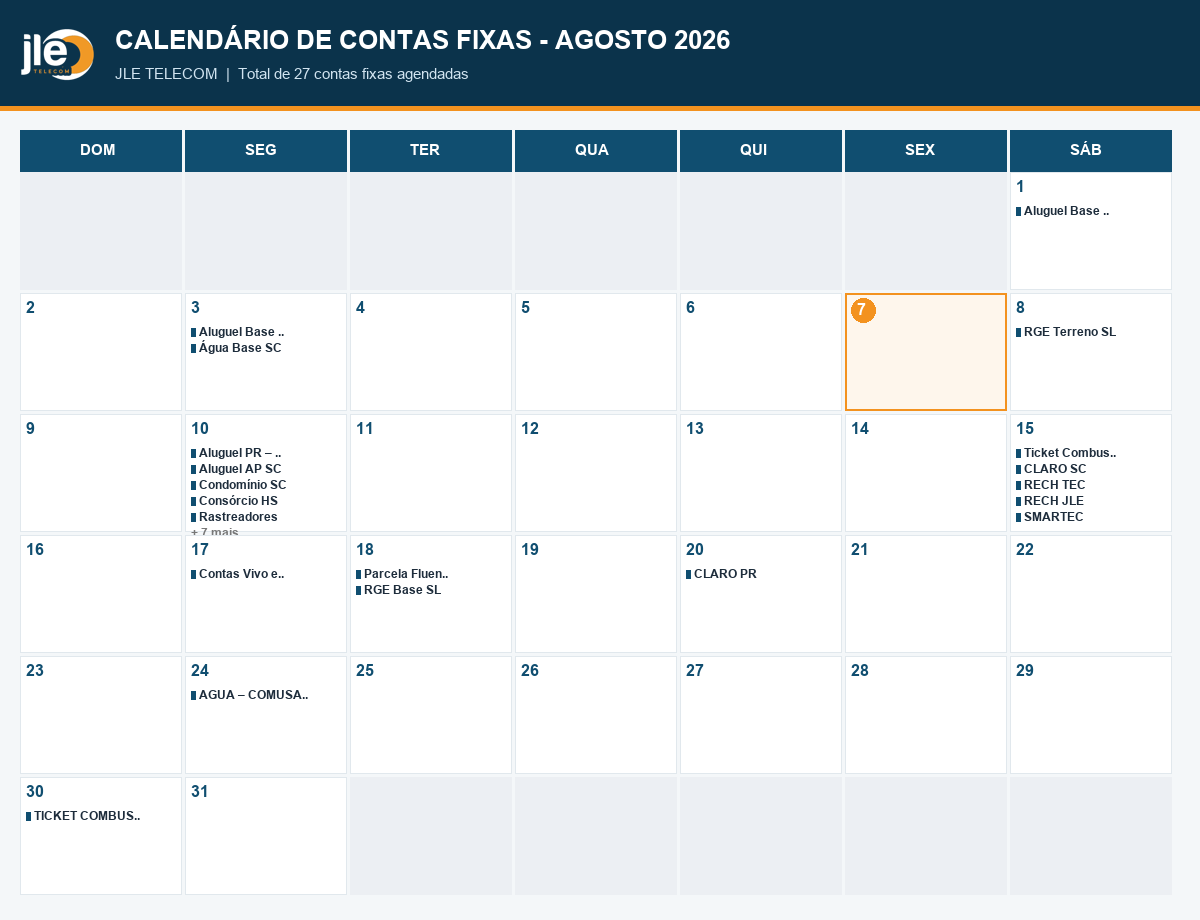
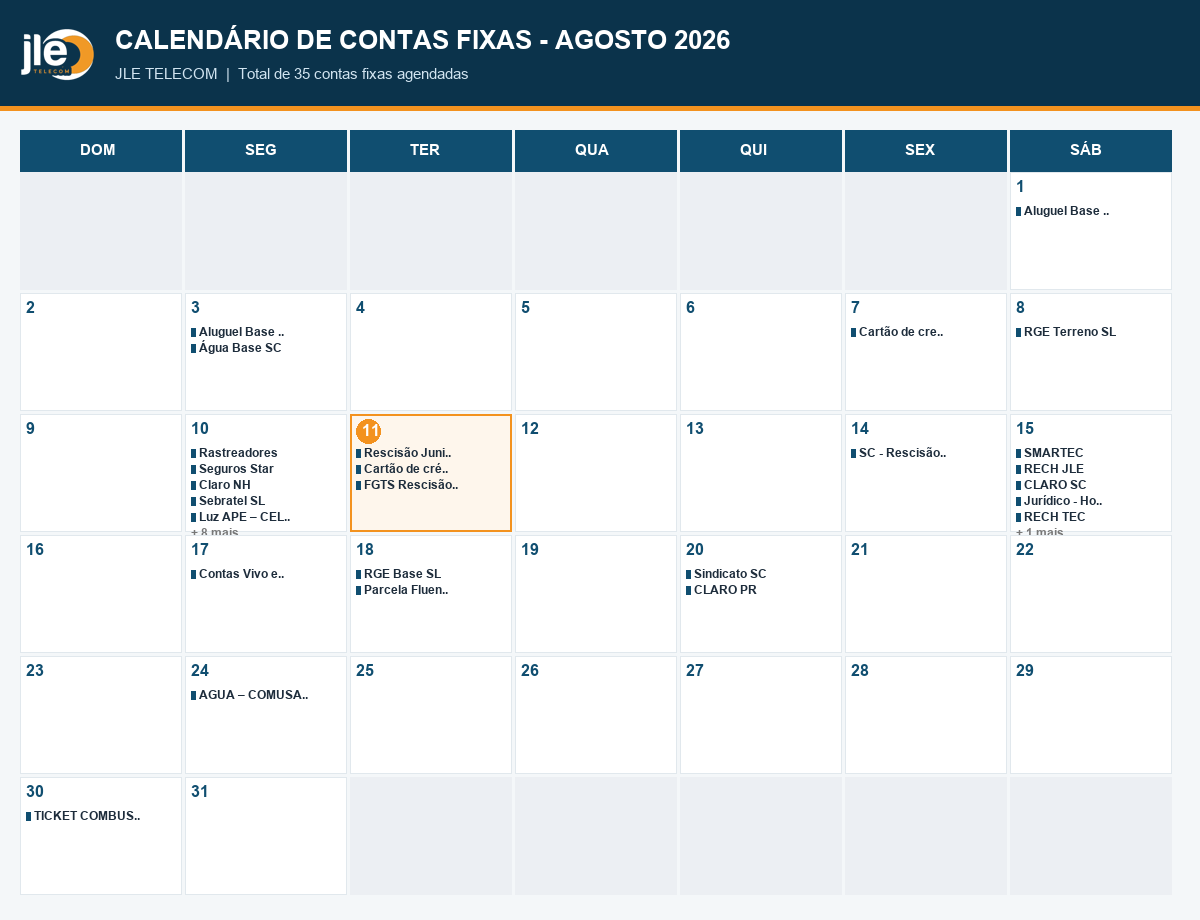
Add recurrence choice (recorrente vs nao recorrente avulsa) to creation and editing forms, update calendar and telegram notifier

diff --git a/src/App.jsx b/src/App.jsx
@@ -47,6 +47,7 @@ export default function App() {
   // Form de Nova/Edição de Conta
   const [formDia, setFormDia] = useState(1);
   const [formDescricao, setFormDescricao] = useState('');
+  const [formRecorrente, setFormRecorrente] = useState(true);
 
   const currentYear = currentDate.getFullYear();
   const currentMonth = currentDate.getMonth() + 1;
@@ -55,6 +56,15 @@ export default function App() {
     'Janeiro', 'Fevereiro', 'Março', 'Abril', 'Maio', 'Junho',
     'Julho', 'Agosto', 'Setembro', 'Outubro', 'Novembro', 'Dezembro'
   ];
+
+  // Helper de Validação de Recorrência por Mês Selecionado
+  const isBillValidForMonth = (bill, month, year) => {
+    if (bill.recorrente === false) {
+      const targetMesAno = `${year}-${String(month).padStart(2, '0')}`;
+      return bill.mes_ano === targetMesAno;
+    }
+    return true;
+  };
 
   // Handler de Login
   const handleLogin = (e) => {
@@ -128,19 +138,36 @@ export default function App() {
 
     const diaNum = Number(formDia);
     const descStr = formDescricao.trim();
+    const currentMesAnoStr = `${currentYear}-${String(currentMonth).padStart(2, '0')}`;
+
+    const payload = {
+      dia_vencimento: diaNum,
+      descricao: descStr,
+      recorrente: formRecorrente,
+      mes_ano: formRecorrente ? null : (editingBill?.mes_ano || currentMesAnoStr),
+      ativa: true
+    };
 
     try {
       if (editingBill) {
         if (isSupabaseConfigured && supabase) {
           await supabase
             .from('contas')
-            .update({ dia_vencimento: diaNum, descricao: descStr })
+            .update(payload)
             .eq('id', editingBill.id);
+        } else {
+          const updated = contas.map(c => c.id === editingBill.id ? { ...c, ...payload } : c);
+          setContas(updated);
+          localStorage.setItem('contas_fixas_data', JSON.stringify(updated));
         }
       } else {
-        const newBill = { dia_vencimento: diaNum, descricao: descStr, ativa: true };
         if (isSupabaseConfigured && supabase) {
-          await supabase.from('contas').insert([newBill]);
+          await supabase.from('contas').insert([payload]);
+        } else {
+          const newObj = { id: Date.now(), ...payload };
+          const updated = [...contas, newObj];
+          setContas(updated);
+          localStorage.setItem('contas_fixas_data', JSON.stringify(updated));
         }
       }
     } catch (err) {
@@ -175,6 +202,7 @@ export default function App() {
     setEditingBill(null);
     setFormDia(day);
     setFormDescricao('');
+    setFormRecorrente(true);
     setShowAddModal(true);
   };
 
@@ -186,6 +214,7 @@ export default function App() {
     setEditingBill(bill);
     setFormDia(bill.dia_vencimento);
     setFormDescricao(bill.descricao);
+    setFormRecorrente(bill.recorrente !== false);
     setShowAddModal(true);
   };
 
@@ -194,6 +223,7 @@ export default function App() {
     setEditingBill(null);
     setFormDescricao('');
     setFormDia(1);
+    setFormRecorrente(true);
   };
 
   const prevMonth = () => setCurrentDate(new Date(currentYear, currentDate.getMonth() - 1, 1));
@@ -310,9 +340,9 @@ export default function App() {
     );
   }
 
-  // Contas do Dia Selecionado para o Pop-up
+  // Contas do Dia Selecionado para o Pop-up (Filtradas por mês/ano se for não-recorrente)
   const selectedDayBills = selectedDay
-    ? contas.filter((c) => c.dia_vencimento === selectedDay)
+    ? contas.filter((c) => c.dia_vencimento === selectedDay && isBillValidForMonth(c, currentMonth, currentYear))
     : [];
 
   // ---------------- TELA PRINCIPAL DO CALENDÁRIO COM LOGO JLE BRANCO ----------------
@@ -376,7 +406,7 @@ export default function App() {
           {Array.from({ length: daysInMonth }).map((_, index) => {
             const dayNum = index + 1;
             const isToday = isCurrentMonthActual && today.getDate() === dayNum;
-            const dayBills = contas.filter((c) => c.dia_vencimento === dayNum);
+            const dayBills = contas.filter((c) => c.dia_vencimento === dayNum && isBillValidForMonth(c, currentMonth, currentYear));
             const hasBills = dayBills.length > 0;
 
             return (
@@ -402,8 +432,14 @@ export default function App() {
                       <div
                         key={bill.id}
                         className="bill-pill pending"
+                        style={{ display: 'flex', alignItems: 'center', justifyContent: 'space-between' }}
                       >
                         <span className="bill-title">{bill.descricao}</span>
+                        {bill.recorrente === false && (
+                          <span style={{ fontSize: '9px', backgroundColor: '#F3921F', color: '#FFF', padding: '1px 4px', borderRadius: '4px', fontWeight: 'bold', marginLeft: '4px', flexShrink: 0 }}>
+                            📌 Avulsa
+                          </span>
+                        )}
                       </div>
                     ))}
                     {dayBills.length > 3 && (
@@ -429,7 +465,7 @@ export default function App() {
                 <p className="day-popup-subtitle">
                   {selectedDayBills.length === 0
                     ? 'Nenhuma conta agendada para este dia'
-                    : `${selectedDayBills.length} conta(s) fixa(s) com vencimento neste dia`}
+                    : `${selectedDayBills.length} conta(s) com vencimento neste dia`}
                 </p>
               </div>
               <button className="btn-icon" onClick={() => setSelectedDay(null)} aria-label="Fechar">
@@ -453,7 +489,14 @@ export default function App() {
                       title="Clique sobre a conta para abrir o formulário de edição/exclusão"
                     >
                       <div className="day-bill-card-info">
-                        <span className="day-bill-tag">Dia {bill.dia_vencimento}</span>
+                        <div style={{ display: 'flex', alignItems: 'center', gap: '6px' }}>
+                          <span className="day-bill-tag">Dia {bill.dia_vencimento}</span>
+                          {bill.recorrente === false && (
+                            <span style={{ fontSize: '11px', backgroundColor: '#F3921F', color: '#FFFFFF', padding: '2px 8px', borderRadius: '12px', fontWeight: '700' }}>
+                              📌 Não Recorrente ({mesesPt[currentMonth - 1]}/{currentYear})
+                            </span>
+                          )}
+                        </div>
                         <span className="day-bill-name">{bill.descricao}</span>
                       </div>
                       <div className="day-bill-card-action">
@@ -628,6 +671,61 @@ export default function App() {
                   onChange={(e) => setFormDescricao(e.target.value)}
                   required
                 />
+              </div>
+
+              <div className="form-group" style={{ marginBottom: 20 }}>
+                <label style={{ display: 'block', marginBottom: 8, fontWeight: '600', color: '#104E70' }}>
+                  Recorrência da Conta:
+                </label>
+                <div style={{ display: 'grid', gridTemplateColumns: '1fr 1fr', gap: '10px' }}>
+                  <button
+                    type="button"
+                    onClick={() => setFormRecorrente(true)}
+                    style={{
+                      padding: '12px 10px',
+                      borderRadius: '10px',
+                      border: formRecorrente ? '2px solid #F3921F' : '1px solid #CBD5E1',
+                      backgroundColor: formRecorrente ? 'rgba(243, 146, 31, 0.1)' : '#F8FAFC',
+                      color: formRecorrente ? '#104E70' : '#64748B',
+                      fontWeight: '700',
+                      fontSize: '0.85rem',
+                      cursor: 'pointer',
+                      display: 'flex',
+                      alignItems: 'center',
+                      justifyContent: 'center',
+                      gap: '6px',
+                      transition: 'all 0.2s ease'
+                    }}
+                  >
+                    🔁 Recorrente (Mensal)
+                  </button>
+                  <button
+                    type="button"
+                    onClick={() => setFormRecorrente(false)}
+                    style={{
+                      padding: '12px 10px',
+                      borderRadius: '10px',
+                      border: !formRecorrente ? '2px solid #F3921F' : '1px solid #CBD5E1',
+                      backgroundColor: !formRecorrente ? 'rgba(243, 146, 31, 0.1)' : '#F8FAFC',
+                      color: !formRecorrente ? '#104E70' : '#64748B',
+                      fontWeight: '700',
+                      fontSize: '0.85rem',
+                      cursor: 'pointer',
+                      display: 'flex',
+                      alignItems: 'center',
+                      justifyContent: 'center',
+                      gap: '6px',
+                      transition: 'all 0.2s ease'
+                    }}
+                  >
+                    📌 Não Recorrente (Avulsa)
+                  </button>
+                </div>
+                <p style={{ marginTop: '8px', fontSize: '0.8rem', color: '#64748B', lineHeight: '1.3' }}>
+                  {formRecorrente
+                    ? '• Repete automaticamente todos os meses neste dia de vencimento.'
+                    : `• Vence APENAS em ${mesesPt[currentMonth - 1]} de ${currentYear} e NÃO se repetirá nos meses seguintes.`}
+                </p>
               </div>
 
               <div className="modal-actions" style={{ display: 'flex', gap: '12px', justifyContent: 'flex-end', marginTop: '24px' }}>

diff --git a/check_supabase_cron.js b/check_supabase_cron.js
@@ -1,0 +1,39 @@
+const SUPABASE_URL = "https://vvbekmpzfznrfbhmxwah.supabase.co";
+const SERVICE_KEY = "eyJhbGciOiJIUzI1NiIsInR5cCI6IkpXVCJ9.eyJpc3MiOiJzdXBhYmFzZSIsInJlZiI6InZ2YmVrbXB6ZnpucmZiaG14d2FoIiwicm9sZSI6InNlcnZpY2Vfcm9sZSIsImlhdCI6MTc4NjA0NTExMSwiZXhwIjoyMTAxNjIxMTExfQ.KUICQoXFJWOaqLqgV7kx6FesCT0OudpUmO-FB7Yrsbo";
+
+async function listCronJobs() {
+    // Verificar Supabase scheduled functions (pg_cron jobs)
+    const res = await fetch(`${SUPABASE_URL}/rest/v1/cron_jobs?select=*`, {
+        headers: {
+            "apikey": SERVICE_KEY,
+            "Authorization": `Bearer ${SERVICE_KEY}`
+        }
+    });
+    console.log("Status cron_jobs:", res.status, res.statusText);
+    if (res.ok) {
+        const data = await res.json();
+        console.log("Cron jobs:", JSON.stringify(data, null, 2));
+    }
+}
+
+async function checkScheduledNotifications() {
+    // Verificar tabela de notificações agendadas
+    const tables = ['notificacoes', 'scheduled_notifications', 'telegram_schedules', 'contas_agendamentos'];
+    for (const table of tables) {
+        const res = await fetch(`${SUPABASE_URL}/rest/v1/${table}?select=*&limit=5`, {
+            headers: {
+                "apikey": SERVICE_KEY,
+                "Authorization": `Bearer ${SERVICE_KEY}`
+            }
+        });
+        if (res.ok) {
+            const data = await res.json();
+            console.log(`Tabela '${table}' existe:`, data.length, "registros");
+        } else {
+            console.log(`Tabela '${table}': ${res.status} (não existe ou sem acesso)`);
+        }
+    }
+}
+
+listCronJobs();
+checkScheduledNotifications();

diff --git a/telegram_cloud_notifier.py b/telegram_cloud_notifier.py
@@ -69,12 +69,21 @@ def fetch_contas():
         print("Aviso Supabase (usando contas padrão):", e)
         return get_mock_contas()
 
+def is_conta_valida_para_mes(c, mes: int, ano: int) -> bool:
+    if c.get("recorrente") is False:
+        mes_ano = c.get("mes_ano")
+        if mes_ano:
+            target = f"{ano}-{mes:02d}"
+            return mes_ano == target
+    return True
+
 def gerar_imagem_calendario(contas, mes: int, ano: int) -> str:
     """Gera o calendário visual estilizado com as cores e logo oficial da JLE Telecom."""
     contas_por_dia = {}
     for c in contas:
-        dia = c["dia_vencimento"]
-        contas_por_dia.setdefault(dia, []).append(c)
+        if is_conta_valida_para_mes(c, mes, ano):
+            dia = c["dia_vencimento"]
+            contas_por_dia.setdefault(dia, []).append(c)
 
     WIDTH = 1200
     HEIGHT = 920
@@ -241,7 +250,7 @@ def main():
     contas = fetch_contas()
     photo_path = gerar_imagem_calendario(contas, agora.month, agora.year)
 
-    contas_hoje = [c for c in contas if c["dia_vencimento"] == agora.day]
+    contas_hoje = [c for c in contas if c["dia_vencimento"] == agora.day and is_conta_valida_para_mes(c, agora.month, agora.year)]
 
     # Busca Vencimentos nos Próximos 3 Dias
     dias_semana_pt = ["Segunda", "Terça", "Quarta", "Quinta", "Sexta", "Sábado", "Domingo"]
@@ -251,7 +260,7 @@ def main():
         data_futura = agora + datetime.timedelta(days=i)
         dia_f = data_futura.day
         nome_dia_semana = dias_semana_pt[data_futura.weekday()]
-        contas_f = [c for c in contas if c["dia_vencimento"] == dia_f]
+        contas_f = [c for c in contas if c["dia_vencimento"] == dia_f and is_conta_valida_para_mes(c, data_futura.month, data_futura.year)]
         if contas_f:
             proximos_dias.append((dia_f, nome_dia_semana, contas_f))
 
